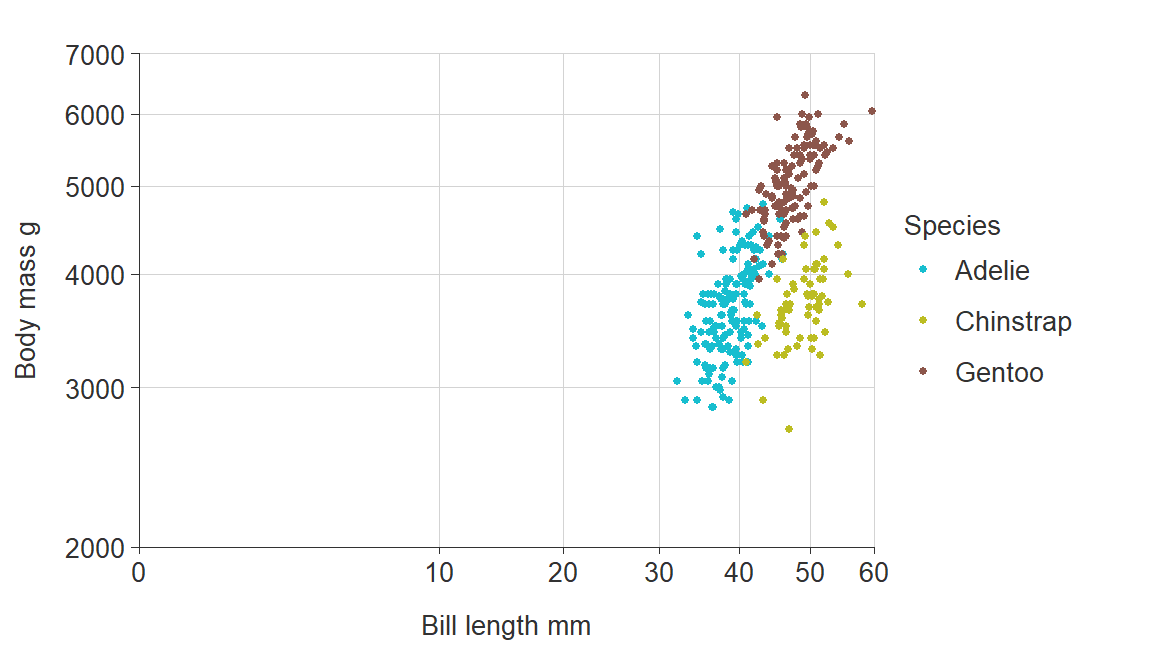
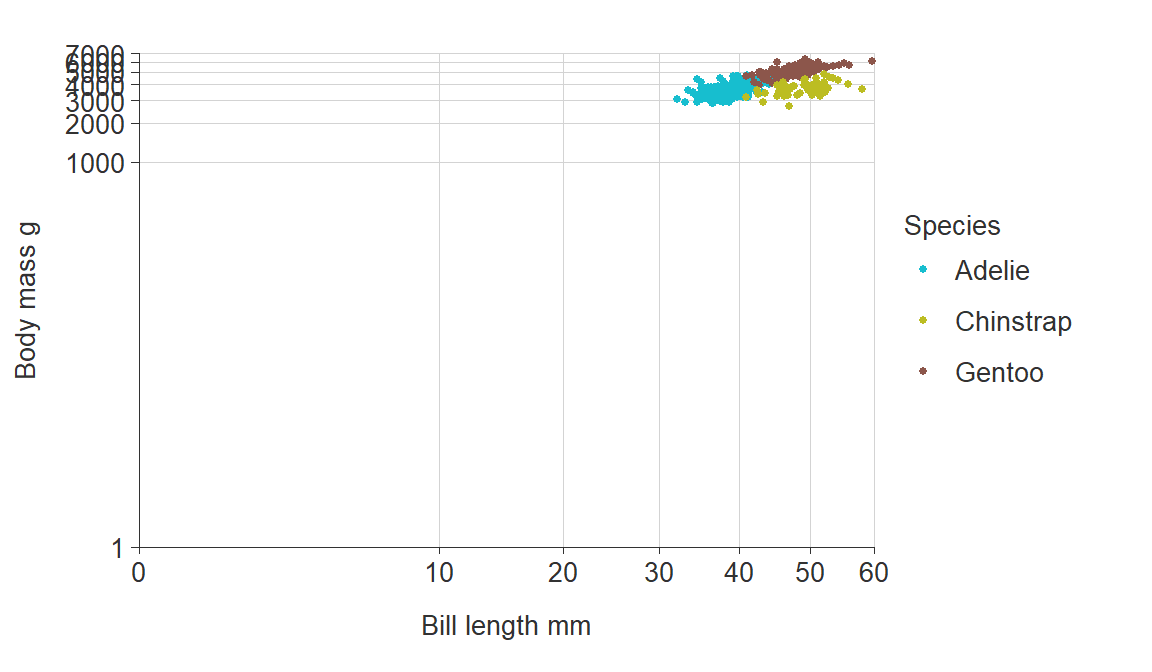
Update

diff --git a/content/post/2021-06-27-scales-with-simplevis/index.html b/content/post/2021-06-27-scales-with-simplevis/index.html
@@ -71,14 +71,19 @@ library(palmerpenguins)</code></pre>
 <p><img src="{{< blogdown/postref >}}index_files/figure-html/unnamed-chunk-6-1.png" width="576" /></p>
 <p>Transform numeric x and y scales.</p>
 <pre class="r"><code>gg_point_col(penguins, bill_length_mm, body_mass_g, species, 
-               x_trans = &quot;sqrt&quot;, x_zero = T,
-               y_trans = &quot;log10&quot;)</code></pre>
+               x_trans = &quot;sqrt&quot;, 
+               x_zero = T,
+               y_trans = &quot;log10&quot;, 
+               y_zero = T)</code></pre>
 <p><img src="{{< blogdown/postref >}}index_files/figure-html/unnamed-chunk-7-1.png" width="576" /></p>
 <p>Balance a numeric scale so that it has equivalence between positive and negative values.</p>
-<pre class="r"><code>gg_point_col(penguins, bill_length_mm, body_mass_g, species, y_balance = T)</code></pre>
+<pre class="r"><code>gg_point_col(penguins, bill_length_mm, body_mass_g, species, 
+             y_balance = T)</code></pre>
 <p><img src="{{< blogdown/postref >}}index_files/figure-html/unnamed-chunk-8-1.png" width="576" /></p>
 <p>Zero lines default on if a numeric scale includes positive and negative values, but can be turned off if desired.</p>
-<pre class="r"><code>gg_point_col(penguins, bill_length_mm, body_mass_g, species, y_balance = T, y_zero_line = F)</code></pre>
+<pre class="r"><code>gg_point_col(penguins, bill_length_mm, body_mass_g, species, 
+             y_balance = T, 
+             y_zero_line = F)</code></pre>
 <p><img src="{{< blogdown/postref >}}index_files/figure-html/unnamed-chunk-9-1.png" width="576" /></p>
 </div>
 <div id="discrete-scales" class="section level3">
@@ -117,7 +122,8 @@ gg_hbar(plot_data, price, cut,
   group_by(cut) %&gt;%
   summarise(price = mean(price)) 
   
-gg_hbar(plot_data, price, cut, y_reorder = T)</code></pre>
+gg_hbar(plot_data, price, cut, 
+        y_reorder = T)</code></pre>
 <p><img src="{{< blogdown/postref >}}index_files/figure-html/unnamed-chunk-13-1.png" width="576" /></p>
 </div>
 <div id="colour-scales" class="section level3">
@@ -172,7 +178,8 @@ gg_hbar_col(plot_data, average_price, cut, clarity,
 <div id="na-values" class="section level3">
 <h3>NA values</h3>
 <p>You can quickly remove NA values by setting <code>x_na</code>, <code>y_na</code>, <code>col_na</code> or <code>facet_na</code> arguments to FALSE.</p>
-<pre class="r"><code>gg_point_col_facet(penguins, bill_length_mm, body_mass_g, sex, species, col_na = F)</code></pre>
+<pre class="r"><code>gg_point_col_facet(penguins, bill_length_mm, body_mass_g, sex, species, 
+                   col_na = F)</code></pre>
 <p><img src="{{< blogdown/postref >}}index_files/figure-html/unnamed-chunk-20-1.png" width="576" /></p>
 </div>
 <div id="expanding-the-scale" class="section level3">
